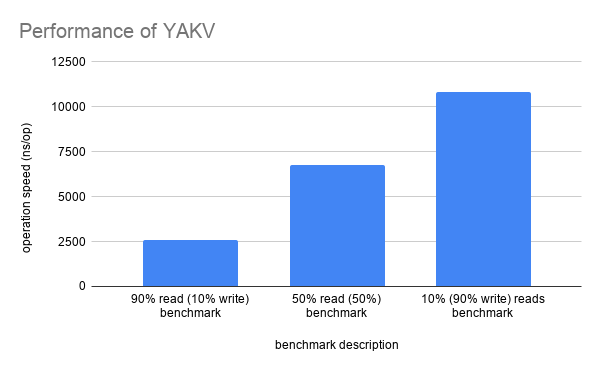
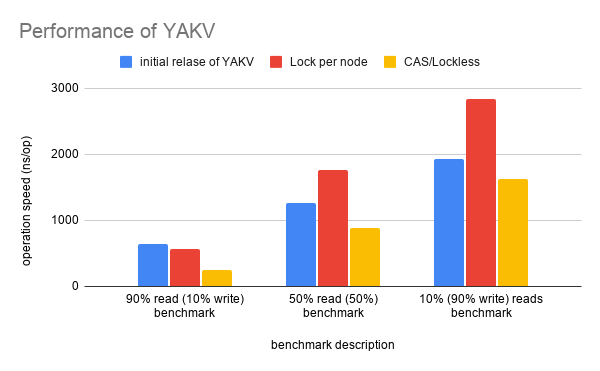
Update graph to include new benchmarks

diff --git a/README.md b/README.md
@@ -51,15 +51,9 @@ Since the initial working version of YAKV, I'm going to run the same following
 benchmarks to track changes in performance to monitor the effect of
 optimizations that I'm going to try.
 
-Benchmarks for concurrent mixed workloads (per-core goroutines):
+Benchmarks for concurrent mixed workloads (per-core goroutines), on Intel(R) Core(TM) Ultra 7 265K:
 
-| Workload | ns/op | B/op | allocs/op |
-|---|---|---|---|
-| 90% read / 10% write | 247 | 46 | 3 |
-| 50% read / 50% write | 892 | 137 | 7 |
-| 10% read / 90% write | 1626 | 228 | 11 |
-
-Benchmarked on Intel(R) Core(TM) Ultra 7 265K:
+![Performance Chart](docs/perf.png)
 
 Run benchmarks yourself:
 ```shell